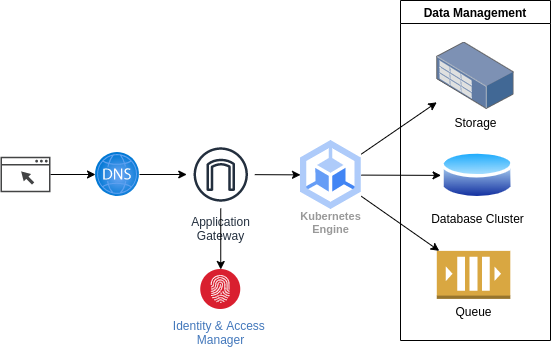
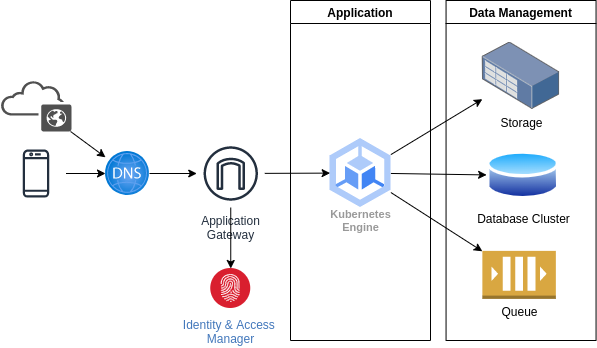
Arquitetura de referencia

diff --git a/docs/arquitetura/ref-arch.md b/docs/arquitetura/ref-arch.md
@@ -1,5 +1,27 @@
 # Arquitetura de Referência
 
-!(Topologia)[/SDADocs/assets/images/ref-arch/ref-arch.png]
+O primeiro ponto que definimos é a adoção dos micro serviços como modelo para desenvolvimento, esta decisão foi tomada devido às características do projeto. O primeiro ponto diz respeito à autonomia dos serviços, por se tratar de um MVP algumas premissas podem se provar ineficientes e com a autonomia dada pelos micro serviços teremos maior flexibilidade em descontinuar o que não serviu e reaproveitar o que foi eficaz. Ainda relacionado a esta característica está a agilidade e tamanho das equipes, o que propicia a entrega contínua destas evoluções.
 
-!(Topologia Simplificada)[/SDADocs/assets/images/ref-arch/ref-arch-simplified.png]
+Outro fator considerado é relacionado a escalabilidade, onde podemos dimensionar cada parte da solução conforme a demanda. Também consideramos a liberdade tecnológica, como se trata de um MVP, onde estamos validando o produto e soluções, esta flexibilidade nos possibilita adotar uma nova tecnologia que atenda melhor a uma necessidade de maneira fácil, o que em uma aplicação monolítica pode se tornar inviável.
+
+O segundo ponto diz respeito ao modelo de deploy em si, como falamos de micro serviços o padrão adotado será o PaaS. Onde adotaremos uma plataforma para publicação de contêineres ou aplicações serverless, dependendo da granularidade aplicada ao micro serviço, para serviços de maior granularidade devemos utilizar contêineres, já para aplicações de menor granularidade serão adotadas soluções  serverless.
+
+## Topologia Proposta
+
+Para a versão inicial da solução, adotaremos uma topologia que atenda às necessidades da aplicação. Considerando a demanda e custo, utilizaremos apenas um data center. Para disponibilizar a aplicação em ambiente web será configurado um DNS, que deve direcionar as requisições a um serviço de entrega de conteúdo (CDN) ou ao Gateway de aplicações. O gateway de aplicações terá a responsabilidade de filtrar as requisições e direcionar aos demais serviços de nossa solução, isso facilitará o gerenciamento de acessos e segurança, pois terão de ser aplicados apenas neste componente, o que se torna de grande importância em uma arquitetura de micro serviços.
+
+![Topologia][1]
+
+Considerando a independência de cloud adotaremos o kubernetes para gerenciamento de contêineres, o que será trará maior flexibilidade em relação a outros gerenciadores por ser adotado no padrão PaaS por todos os provedores de cloud pesquisados e no caso de não haver o serviço gerenciado, ainda é possível disponibilizá-lo através de uma plataforma IaaS. Para aplicações serverless adotaremos serviços gerenciados das clouds e posteriormente avaliaremos frameworks para desenvolvimento dos mesmos.
+
+## Exemplo de aplicação
+
+A seguir segue o exemplo de aplicação desta topologia em uma stack AWS.
+
+![Arquitetura Proposta][2]
+
+> Neste exemplo não utilizamos o Cognito como gerenciador de identidade e acessos, por considerar que este acoplaria nossa solução à stack AWS, além de outros aspectos que favorecem outras soluções.
+
+
+[1]: /SDADocs/assets/images/ref-arch/ref-arch.png
+[2]: /SDADocs/assets/images/ref-arch/arch-aws-simplified.png

diff --git a/docs/arquitetura/granularidade.md b/docs/arquitetura/granularidade.md
@@ -1,3 +1,30 @@
 # Granularidade de micro-serviços
 
-aaaaaaaaaaaaa
+O primeiro ponto a se observar é o nosso entendimento sobre a granularidade dos micro serviços. Adotamos a avaliação partindo de uma maior granularidade, para refinar em granularidades menores conforme as características de cada serviço. Consideramos o contexto de domínio como o ponto de partida para a definição de granularidade de um micro serviço, em nosso entendimento para cada contexto delimitado sempre devemos definir um novo micro serviço, sendo esta a maior granularidade possível.
+
+![Domínios][1]
+
+Considerando o domínio apresentado, os principais micro serviços serão: *Contexto1*, *Contexto2* e *Contexto3*. 
+
+Porém diversos fatores podem fazer com que estes micro serviços sejam divididos:
+
+- Complexidade do contexto 
+- Complexidade do domínio
+- Carga de processamento
+- Volume de requisições
+- Tamanho e quantidade de equipes para sustentar o micro serviço. 
+
+Se houver o entendimento de que o *Contexto 1* é muito grande para um micro serviço, devemos dividi-lo. Por exemplo, podemos ter um micro serviço responsável pelos Domínios 1 e 4 e outro responsável Domínios 2 e 3.
+
+## Tamanho de equipes
+
+Um indicador que um micro serviço está se tornando complexo é o tamanhdo das equipes que o sustentam. Para evitar problemas com o ciclo de desenvolvimento, uma única equipe deve ser capaz de sustentar e evoluir o micro serviço. Quando um micro serviço for grande demais para ser sustentado por uma única equipe é um sinal que está se tornando um complexo e este deve ser dividido. Porém uma equipe pode sustentar um ou mais micro serviços.
+
+![Micro serviços por equipes][2]
+
+!!! warning "Ponto importante"
+    Aumentar o tamanho da equipe além de não resolver o problema de conflitos das entregas, também trará um problema de gestão. Grandes equipes de desenvolvimento tendem a se dividir em grupos de trabalho, como se fossem sub equipes, o que demandaria o gerenciamento dos conflitos entre as diversas frentes de trabalho.
+
+
+[1]: /SDADocs/assets/images/ref-arch/dominios.png
+[2]: /SDADocs/assets/images/ref-arch/equipes_e_deploy.png

diff --git a/docs/arquitetura/mvp/avaliacoes.md b/docs/arquitetura/mvp/avaliacoes.md
@@ -1,0 +1,62 @@
+# Avaliações
+
+## Soluções para identity & access management
+
+!!! abstract "AWS Cognito"
+    **Vantagens**
+
+    - **Nativo na AWS**
+    - Gerenciamento de identidades únicas
+    - Suporte a MFA 
+    - Armazenamento e sincronismo embarcados
+    - Integração SSO
+    - Free para primeiros 50000 usuários
+    - Documentação abrangente
+
+    **Desvantagens**
+
+    - **Apesar de se apresentar como de integração simples, relatos apontam ser uma grande dor de cabeça**
+    - **Customização do login é limitada**
+    - Documentação complexa e frequentemente desatualizada ou inútil
+    - **Faltam funcionalidades** que são básicas em outras ferramentas, como: MFA “esquecer” de um dispositivo, logout na api, recuperação do MFA.
+    - **Solução atrelada ao fornecedor de Cloud**
+
+!!! check "Keycload"
+    **Vantagens**
+
+    - **Solução Open Source**
+    - Suporte a múltiplos provedores de identidade
+    - Fácil de customizar
+    - Mantida por desenvolvedores da Redhat
+    - Suporte a MFA
+    - SDK oficial para spring boot
+    - Desenvolvimento de SDKs pela comunidade
+    - **Funcionalidades completas**
+
+    **Desvantagens**
+
+    - Falta de documentação sobre uso por aplicações cliente
+    - Falta SDK oficial para diversas linguagens
+
+!!! abstract "Auth0"
+    **Vantagens**
+
+    - Integração com diversos provedores de identidade
+    - Solução universal
+    - Disponibilidade de SDKs
+    - Integração com heroku, azure, etc
+    - Suporte Enterprise
+    - Documentação abrangente
+    - Disponibilidade de códigos de exemplo
+    - **Facilidade de integração**
+    - Implantação on-premise
+
+    **Desvantagens**
+
+    - Alto custo quando usado em escala ou para ter todos os recursos.
+    - **Versão free muito limitada**
+    - **API muda constantemente**
+    - Página de status não reflete a realidade
+    - **Solução atrelada ao fornecedor**
+
+Entre as soluções avaliadas decidimos seguir o estudo de viabilidade de implementar o Keycloak dentro de nossa stack, inicialmente instalado em um container no EKS.

diff --git a/docs/arquitetura/mvp/index.md b/docs/arquitetura/mvp/index.md
@@ -1,0 +1,21 @@
+# Arquitetura para o MVP
+
+Considerando as complexidades relacionadas a micro serviços de granularidade fina, inicialmente adotaremos serviços com maior granularidade, que serão publicados por meio de contêineres, mais adiante discutiremos os padrões para desenvolvimento dos mesmo.
+
+## Topologia Simplificada
+
+Sendo assim, adotaremos uma simplificação da topologia, que poderá ser evoluída para a inicialmente proposta.
+
+![Topologia Simplificada][1]
+
+Nesta topologia retiramos o servidor de conteúdo estático, aplicações serverless e gerenciador de notificações por tópicos. Com esta topologia será possível implementar serviços que serão consumidos por uma aplicação mobile.
+
+## Arquitetura adotada
+
+Para a versão inicial, por conhecimento prévio da plataforma, adotaremos a AWS como provedor de cloud. Com isso temos a seguinte arquitetura para o MVP proposto:
+
+![Arquitetura Proposta][2]
+
+
+[1]: /SDADocs/assets/images/ref-arch/ref-arch-simplified.png
+[2]: /SDADocs/assets/images/ref-arch/arch-aws-simplified.png

diff --git a/docs/release.md b/docs/release.md
@@ -1,6 +1,14 @@
 # O que há de novo
 
-!!! note "Release 2022.06-2"
+!!! note "Release 2022.06-3"
+    - Documentada a [arquitetura de referencia][5]
+    - Atualizada a documentação sobre a [granularidade dos micro serviços][4]
+    - Documentada a [arquitetura de software][6]
+    - Documentado os [padrões para micro serviços][7]
+    - Documentada a [arquitetura para o MVP][8]
+    - Documentada a [avaliação de soluções para identity & access management][9]
+
+!!! quote "Release 2022.06-2"
     - Criada sessão de arquitetura
     - Documentação sobre a [granularidade dos micro serviços][4]
 
@@ -14,3 +22,8 @@
 [2]: /SDADocs/tecnologia/tech-sheet
 [3]: /SDADocs/tecnologia/life-cycle
 [4]: /SDADocs/arquitetura/granularidade
+[5]: /SDADocs/arquitetura/ref-arch
+[6]: /SDADocs/arquitetura/software
+[7]: /SDADocs/arquitetura/padroes
+[8]: /SDADocs/arquitetura/mvp/index
+[8]: /SDADocs/arquitetura/mvp/avaliacoes

diff --git a/docs/arquitetura/software.md b/docs/arquitetura/software.md
@@ -1,0 +1,9 @@
+# Arquitetura de Software
+
+Para garantir o isolamento de nossos casos de uso, facilitando adequações em caso de migrações de clouds ou mudanças de arquitetura, ou mesmo a separação de micro serviços, iremos adotar a arquitetura hexagonal como modelo para nossas aplicações.
+
+![Arquitetura Hexagonal][1]
+
+Neste padrão de arquitetura, também conhecido como *ports & adapters*, ocorre o desacoplamento do core da aplicação (casos de uso e domínio) das integrações externas. Isso se dá devido a inversão de dependências promovida pelos ports.
+
+[1]: /SDADocs/assets/images/ref-arch/hexagonal-arch.png

diff --git a/docs/arquitetura/padroes.md b/docs/arquitetura/padroes.md
@@ -1,0 +1,14 @@
+# Padrões de arquitetura
+
+Para resolver alguns problemas comuns sugerimos alguns padrões de arquitetura a seguir. Estes padrões ilustram os cenários que esperamos serem os mais comuns no desenvolvimento de nossos serviços, porém não são os únicos que podemos adotar.
+
+## Dependência direta
+
+
+## BFF
+
+
+
+*[BFF]: Backend For Frontend
+
+[1]: 
